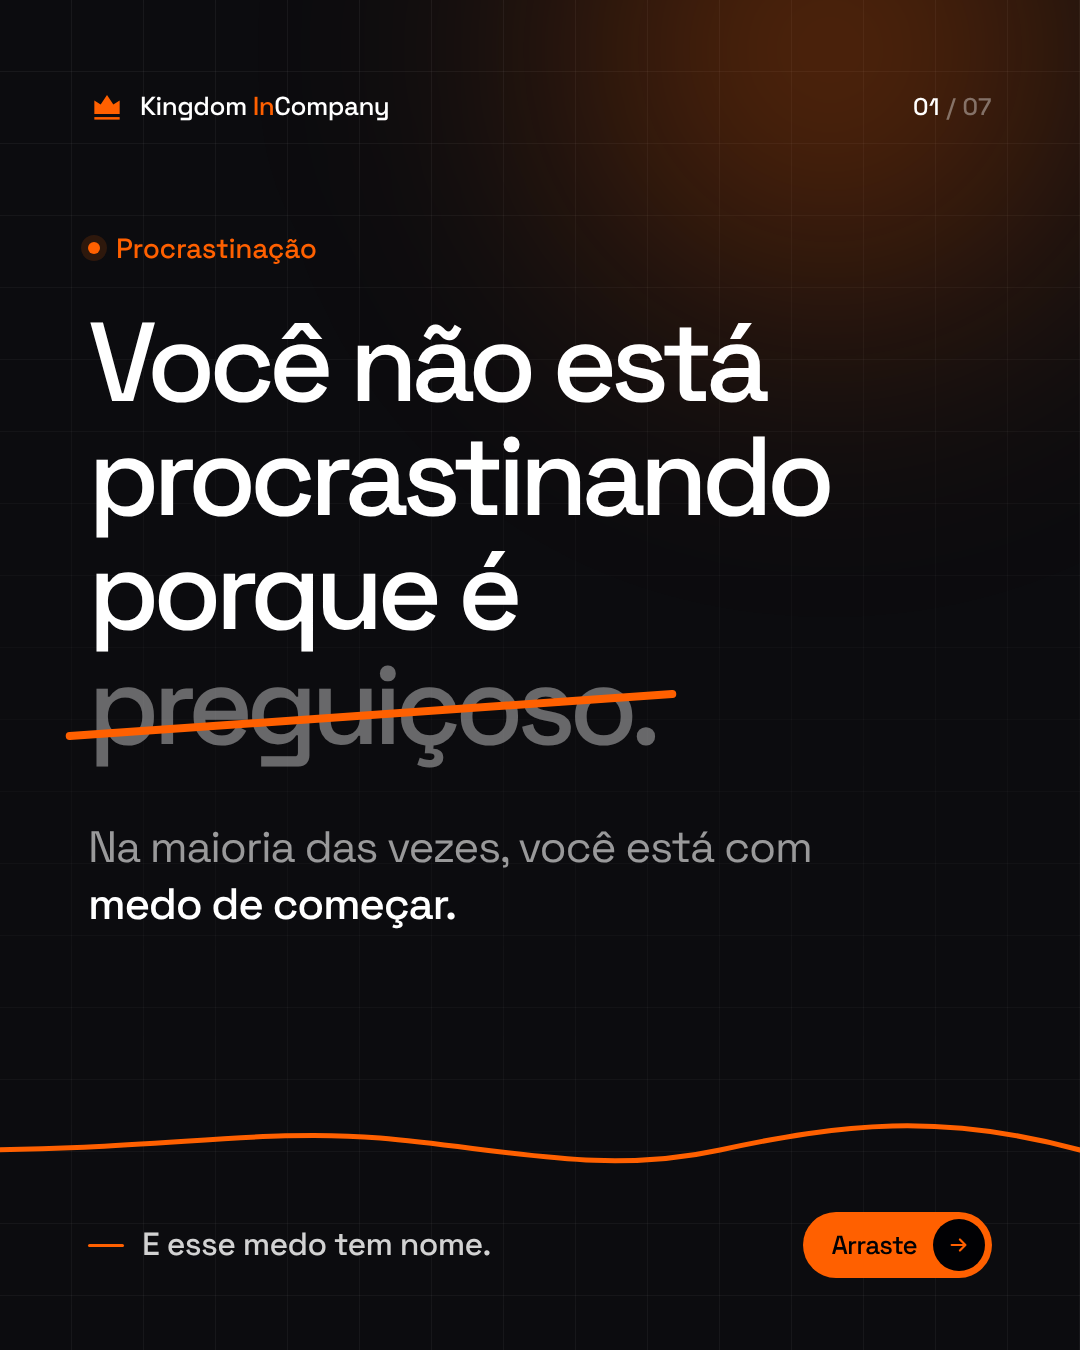
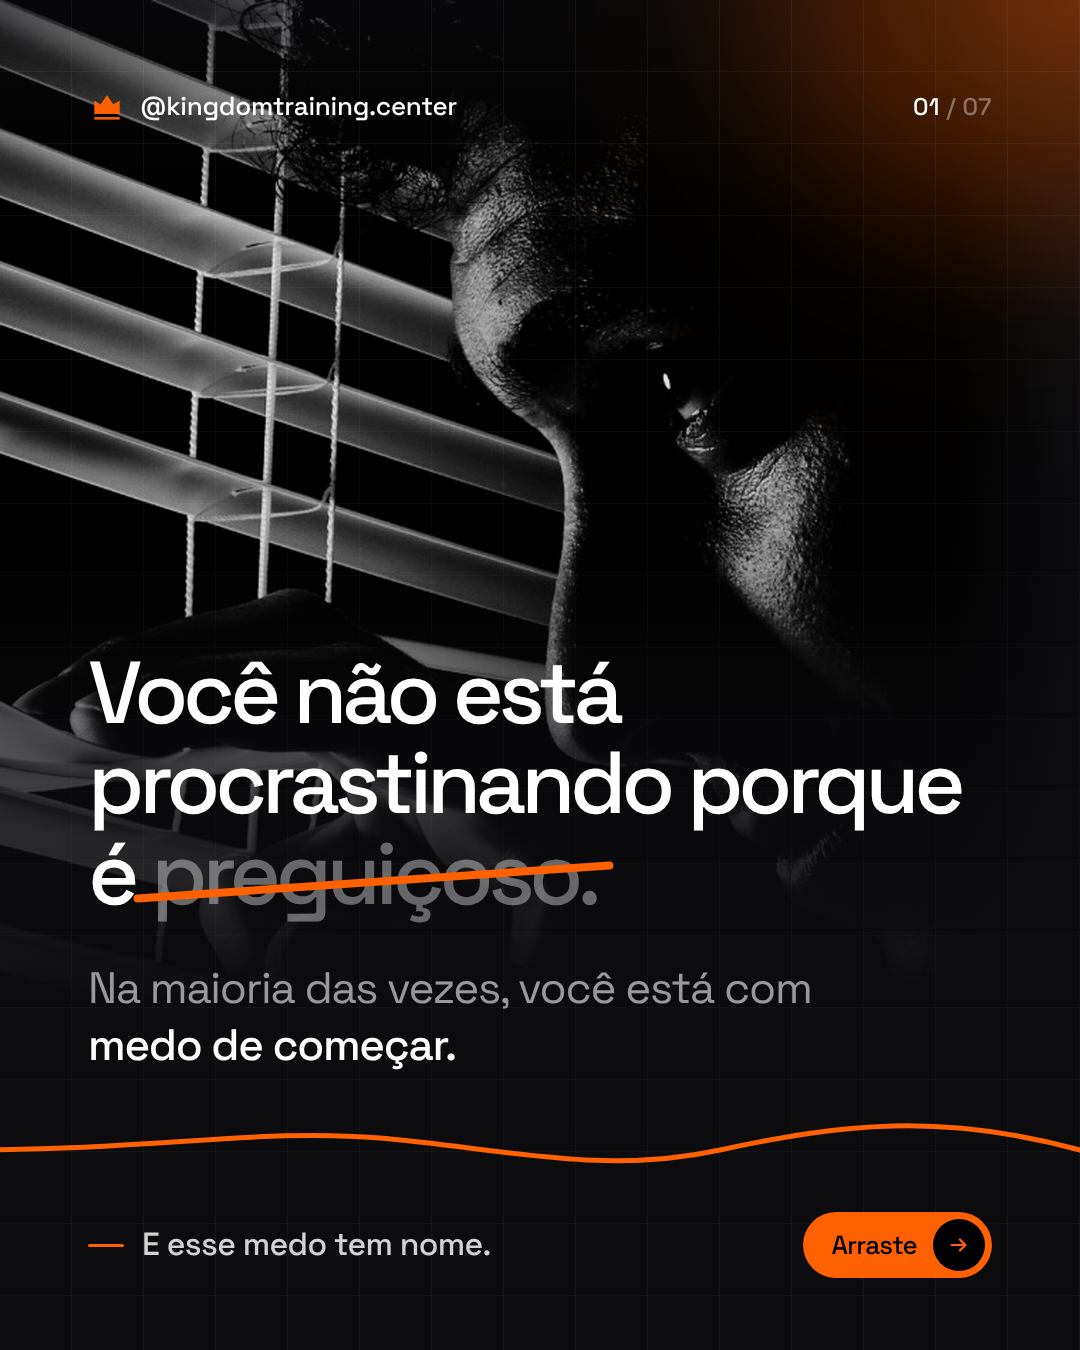
Carrossel 1: capa final com foto
Foto da persiana recortada para 1080x1350 (fotos/capa.jpg), brilho laranja
mais discreto no canto e degradê ajustado para mostrar mais do rosto.

Claude-Session: https://claude.ai/code/session_01RgmbLLVHoJT5B4GNygU6zs

Changed region(s): [[0.0, 0.0, 0.9167, 0.6844], [0.0611, 0.7156, 0.7639, 0.8089], [0.8861, 0.0, 1.0, 0.1556]]

diff --git a/content/carrosseis/01-medo-procrastinar/carrossel.html b/content/carrosseis/01-medo-procrastinar/carrossel.html
@@ -144,8 +144,8 @@ h2{ font-size:80px; line-height:1.06; }
   letter-spacing:.02em; color:var(--muted-2); }
 .cover-photo .tint{ position:absolute; inset:0;
   background:
-    radial-gradient(70% 45% at 85% 0%, rgba(255,96,0,.38), transparent 70%),
-    linear-gradient(180deg, rgba(12,12,15,.6) 0%, rgba(12,12,15,0) 16%, rgba(12,12,15,.1) 38%, rgba(12,12,15,.78) 56%, #0C0C0F 72%),
+    radial-gradient(55% 35% at 100% 0%, rgba(255,96,0,.3), transparent 70%),
+    linear-gradient(180deg, rgba(12,12,15,.6) 0%, rgba(12,12,15,0) 16%, rgba(12,12,15,.1) 42%, rgba(12,12,15,.8) 60%, #0C0C0F 74%),
     linear-gradient(90deg, transparent 88%, #0C0C0F 100%); }
 .slide.cover .body{ top:auto; bottom:276px; }
 .slide.cover h1{ font-size:88px; line-height:1.03; }
@@ -168,7 +168,7 @@ h2{ font-size:80px; line-height:1.06; }
     <div class="tint"></div>
   </div>
   <div class="grid-overlay"></div>
-  <div class="glow" style="width:820px;height:820px;left:420px;top:-360px"></div>
+  <div class="glow" style="width:820px;height:820px;left:620px;top:-460px;opacity:.6"></div>
   <div class="glow" style="width:640px;height:640px;left:2700px;top:620px;opacity:.6"></div>
   <div class="glow" style="width:700px;height:700px;left:3900px;top:-300px;opacity:.75"></div>
   <div class="glow" style="width:620px;height:620px;left:5900px;top:760px;opacity:.6"></div>
